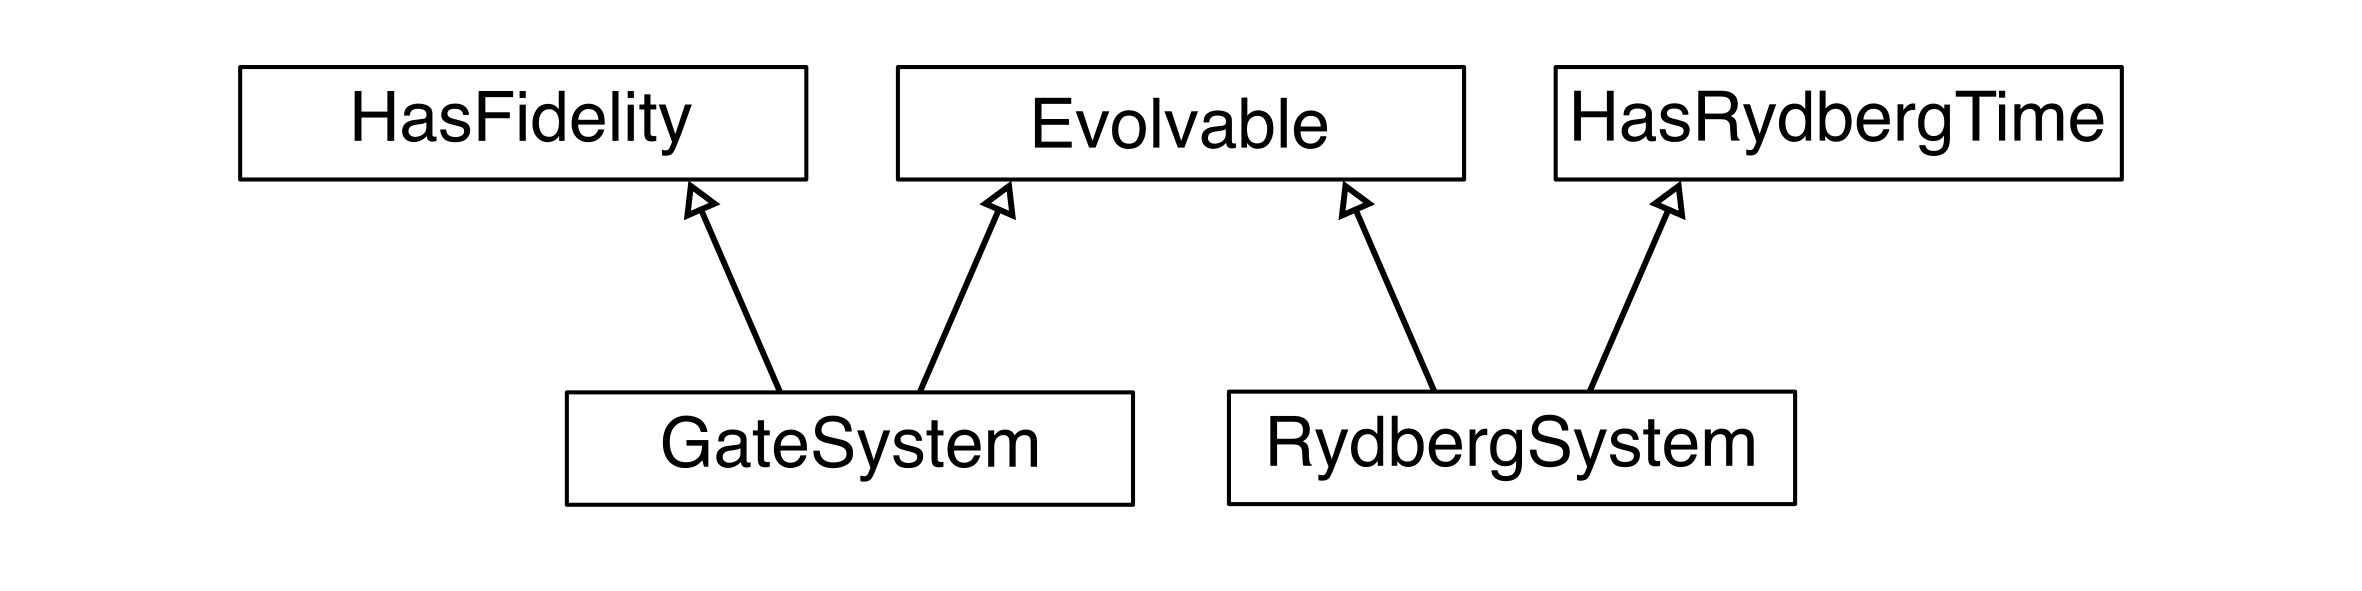
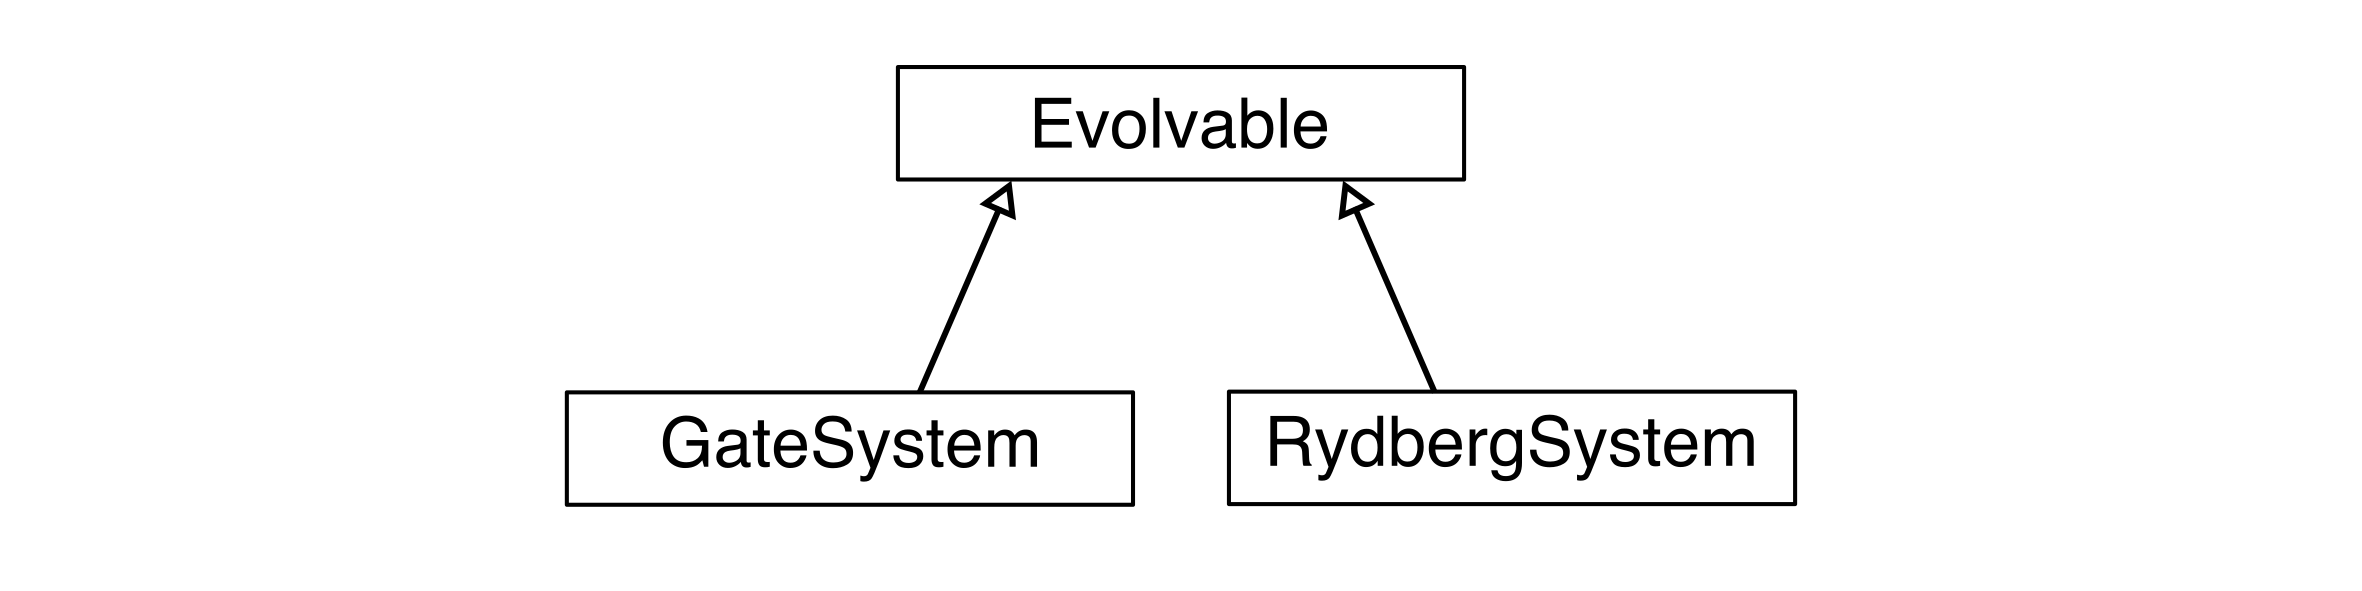
Simplified Protocols

diff --git a/src/rydopt/protocols.py b/src/rydopt/protocols.py
@@ -38,8 +38,16 @@ class Evolvable(Protocol):
         ...
 
 
-class HasFidelity(Protocol):
-    """Interface that ensures that methods are present for calculating fidelities from time-evolved basis states."""
+@runtime_checkable
+class GateSystem(Evolvable, Protocol):
+    """Interface for :ref:`gates <gates>` that can be optimized for process fidelity.
+    The interface is derived from :class:`Evolvable`. Additionally, methods are present for
+    calculating fidelities from time-evolved basis states.
+
+    Used by :func:`rydopt.simulation.process_fidelity`, :func:`rydopt.simulation.average_gate_fidelity`,
+    :func:`rydopt.optimization.optimize`, :func:`rydopt.characterization.analyze_gate`,
+    and :func:`rydopt.characterization.analyze_gate_qutip`.
+    """
 
     def process_fidelity(self, final_basis_states: tuple[jnp.ndarray, ...]) -> jnp.ndarray:
         r"""Given the basis states evolved under the pulse,
@@ -65,9 +73,14 @@ class HasFidelity(Protocol):
         ...
 
 
-class HasRydbergTime(Protocol):
-    """Interface that ensures that methods are present for calculating the time spent in the Rydberg state
-    from time-evolved basis states.
+@runtime_checkable
+class RydbergSystem(Evolvable, Protocol):
+    """Interface for Evolvables that utilize Rydberg states.
+    The interface is derived from :class:`Evolvable`. Additionally, methods are present for
+    calculating the time spent in Rydberg states during time evolution.
+
+    Used by :func:`rydopt.simulation.rydberg_time`, :func:`rydopt.characterization.analyze_gate`,
+    and :func:`rydopt.characterization.analyze_gate_qutip`.
     """
 
     def rydberg_population_operators_for_basis_states(self) -> tuple[jnp.ndarray, ...]:
@@ -104,24 +117,3 @@ class HasRydbergTime(Protocol):
 
         """
         ...
-
-
-@runtime_checkable
-class GateSystem(Evolvable, HasFidelity, Protocol):
-    """Interface for :ref:`gates <gates>` that can be optimized for process fidelity.
-    The interface is derived from :class:`Evolvable` and :class:`HasFidelity`.
-
-    Used by :func:`rydopt.simulation.process_fidelity`, :func:`rydopt.simulation.average_gate_fidelity`,
-    :func:`rydopt.optimization.optimize`, :func:`rydopt.characterization.analyze_gate`,
-    and :func:`rydopt.characterization.analyze_gate_qutip`.
-    """
-
-
-@runtime_checkable
-class RydbergSystem(Evolvable, HasRydbergTime, Protocol):
-    """Interface for :ref:`gates <gates>` that expose logic to determine the time in the Rydberg state.
-    The interface is derived from :class:`Evolvable` and :class:`HasRydbergTime`.
-
-    Used by :func:`rydopt.simulation.rydberg_time`, :func:`rydopt.characterization.analyze_gate`,
-    and :func:`rydopt.characterization.analyze_gate_qutip`.
-    """
